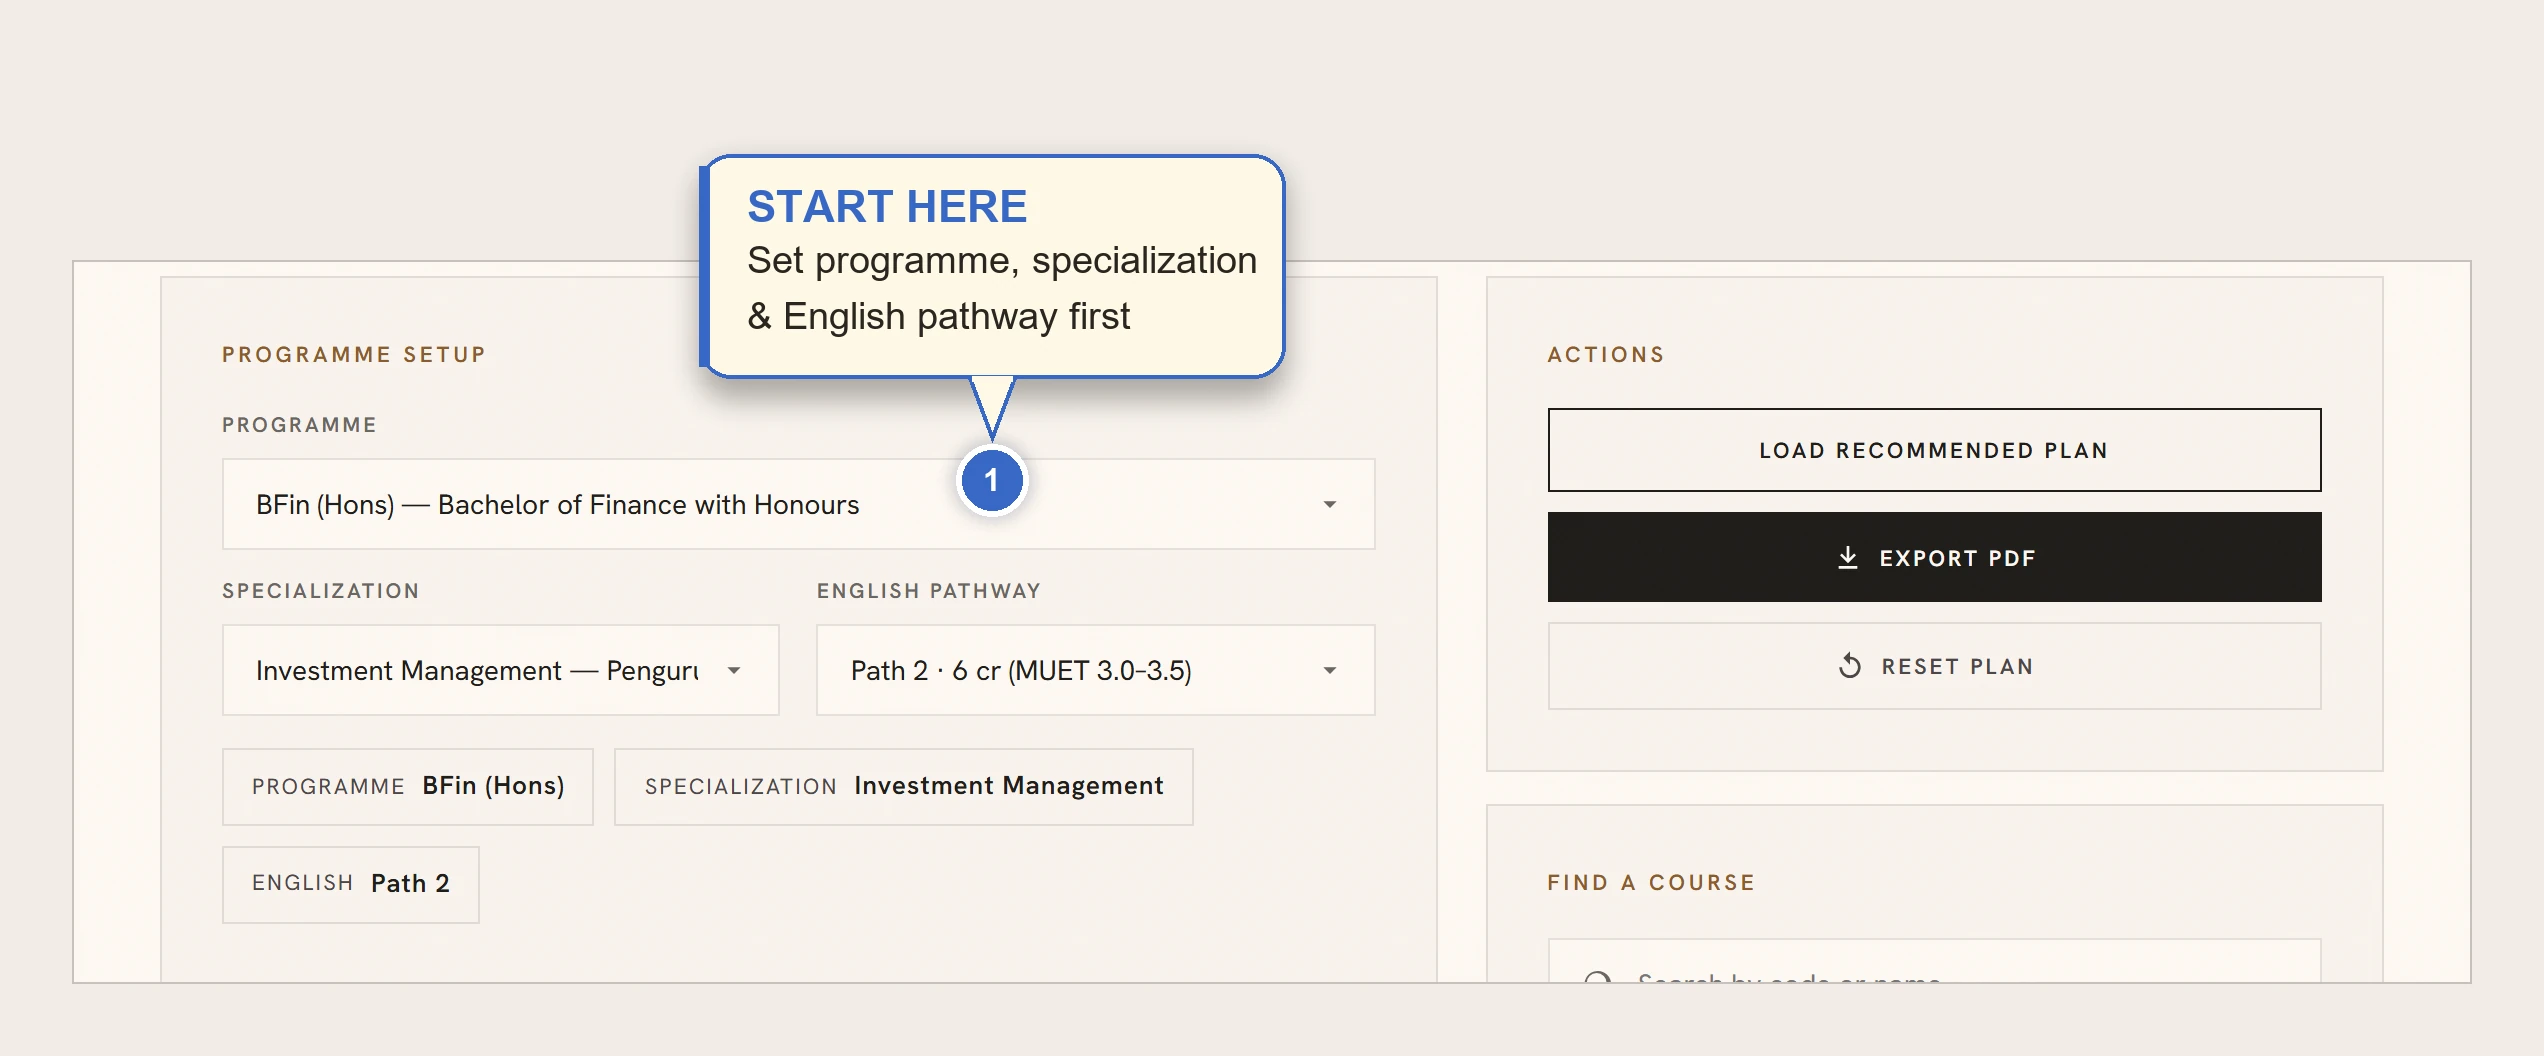
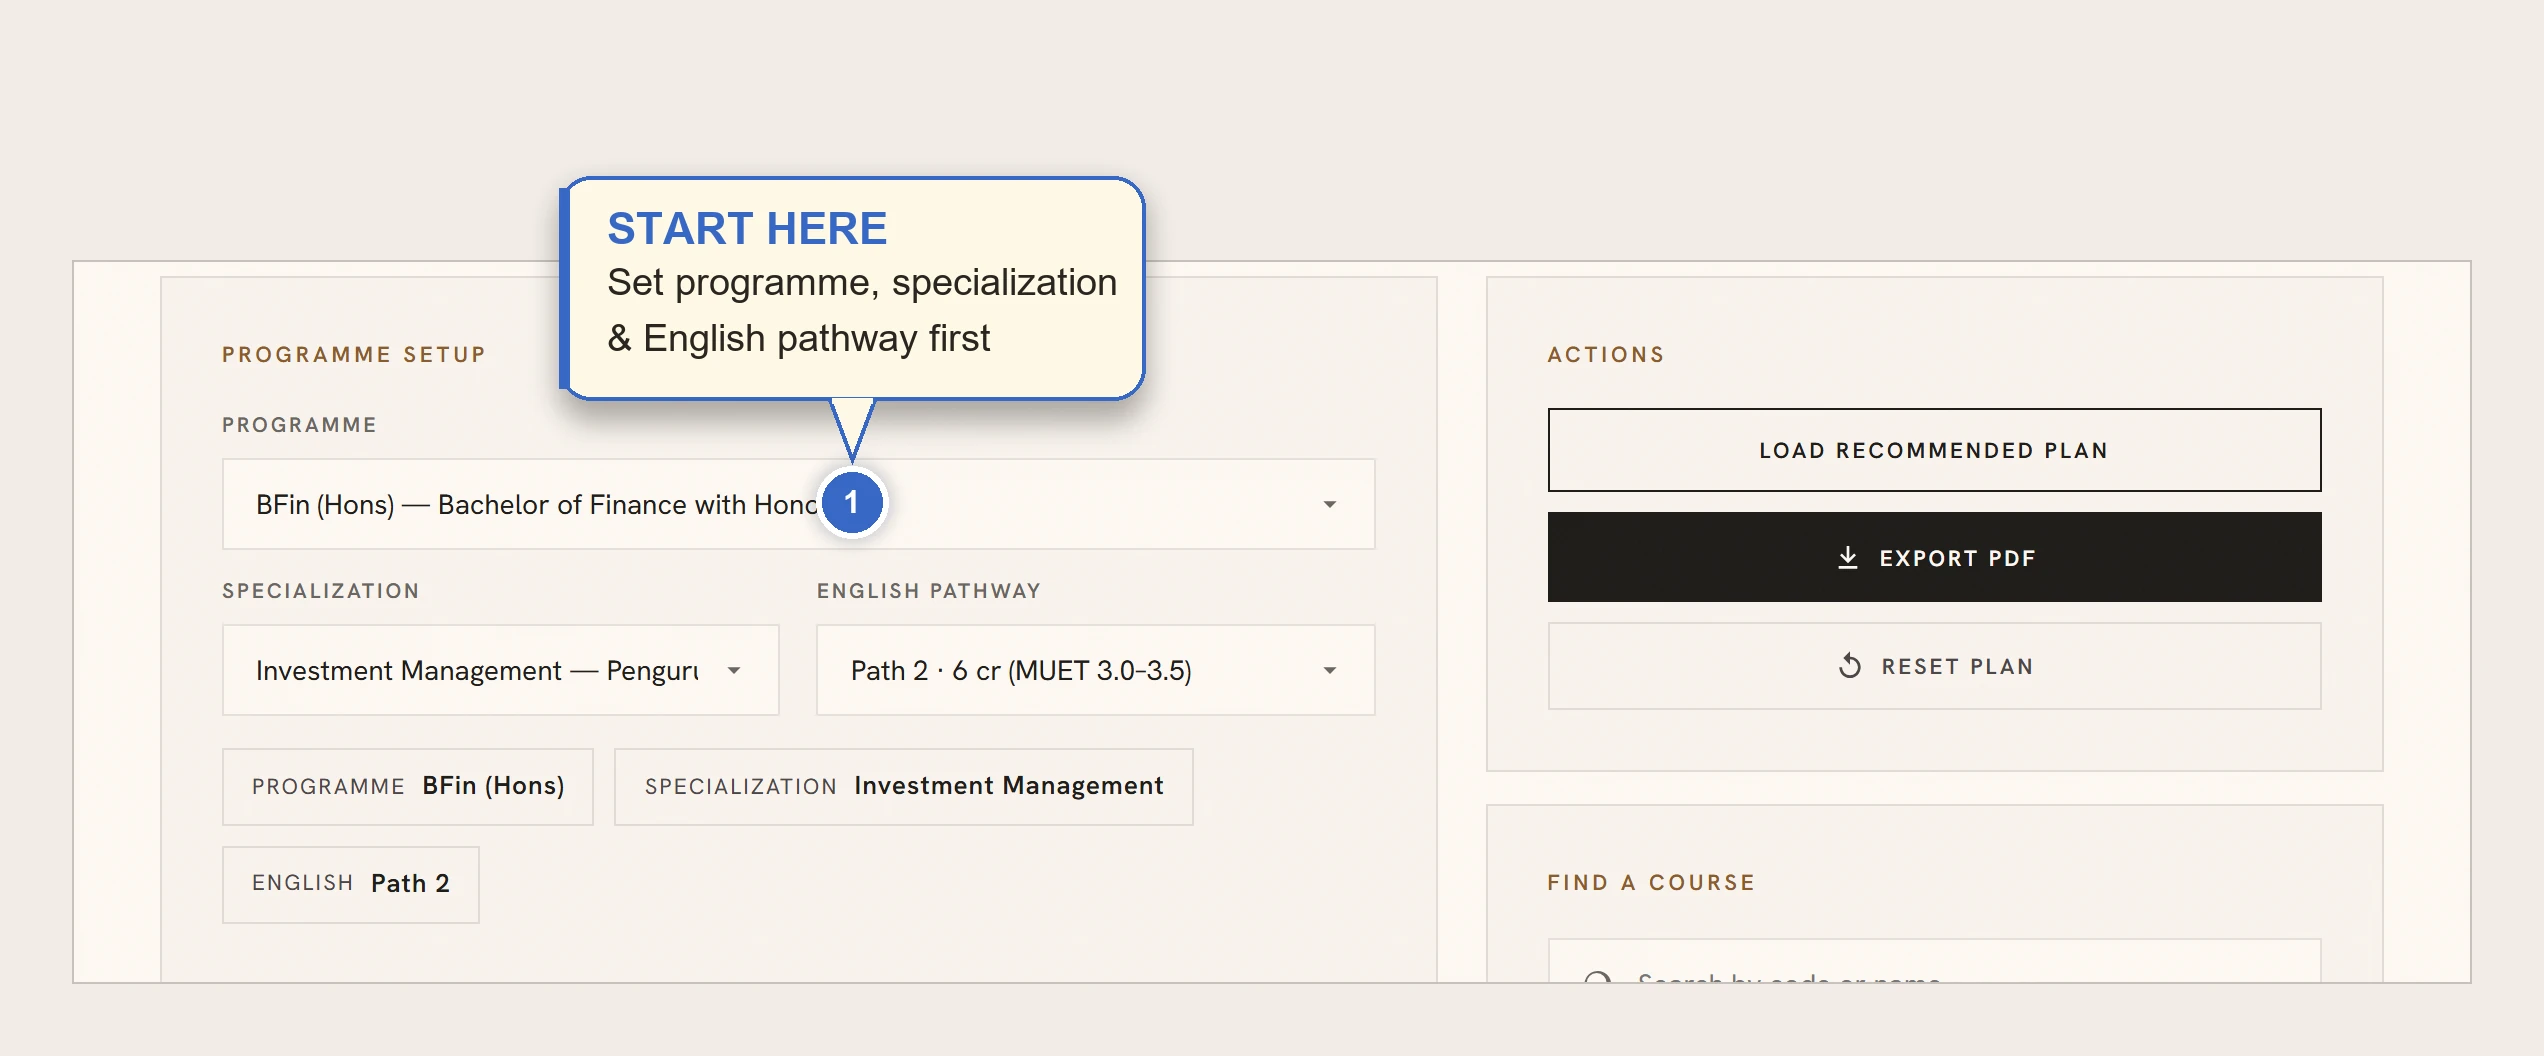
Re-target help-tour callouts to actual controls + cache-bust
Point each pin at the real UI element: Move dropdown, Add-course
dropdown, grade dropdown, status panel, requirement row. Fixes
callouts that previously pointed at the alerts panel. Add ?v=2 to
image URLs so the live site serves the updated screenshots.

Changed region(s): [[0.2174, 0.125, 0.5279, 0.5312]]

diff --git a/help.html b/help.html
@@ -70,7 +70,7 @@
     <div class="help-grid">
 
       <article class="help-step" style="--c:var(--cat-C)">
-        <div class="help-shot"><img src="images/help-step1.webp" alt="Programme Setup dropdowns with a callout reading: start here — set programme, specialization and English pathway first" loading="lazy"></div>
+        <div class="help-shot"><img src="images/help-step1.webp?v=2" alt="Programme Setup dropdowns with a callout reading: start here — set programme, specialization and English pathway first" loading="lazy"></div>
         <div class="help-body">
           <span class="step-pill">Step 1</span>
           <h3>Pick the correct programme first</h3>
@@ -80,7 +80,7 @@
       </article>
 
       <article class="help-step" style="--c:var(--cat-B)">
-        <div class="help-shot"><img src="images/help-step2.webp" alt="Semester stack with callouts: drag any course to move it to another semester, and add courses from the dropdown" loading="lazy"></div>
+        <div class="help-shot"><img src="images/help-step2.webp?v=2" alt="Semester stack with callouts: drag any course to move it to another semester, and add courses from the dropdown" loading="lazy"></div>
         <div class="help-body">
           <span class="step-pill">Step 2</span>
           <h3>Build the semester plan</h3>
@@ -90,7 +90,7 @@
       </article>
 
       <article class="help-step" style="--c:var(--cat-D)">
-        <div class="help-shot"><img src="images/help-step3.webp" alt="A course row with a callout pointing to the grade dropdown: enter your grade, GPA updates instantly" loading="lazy"></div>
+        <div class="help-shot"><img src="images/help-step3.webp?v=2" alt="A course row with a callout pointing to the grade dropdown: enter your grade, GPA updates instantly" loading="lazy"></div>
         <div class="help-body">
           <span class="step-pill">Step 3</span>
           <h3>Enter your grades</h3>
@@ -100,7 +100,7 @@
       </article>
 
       <article class="help-step" style="--c:var(--cat-G)">
-        <div class="help-shot"><img src="images/help-step4.webp" alt="Graduation Checklist with callouts: check the status first, then clear each unmet requirement one by one" loading="lazy"></div>
+        <div class="help-shot"><img src="images/help-step4.webp?v=2" alt="Graduation Checklist with callouts: check the status first, then clear each unmet requirement one by one" loading="lazy"></div>
         <div class="help-body">
           <span class="step-pill">Step 4</span>
           <h3>Check graduation readiness</h3>
